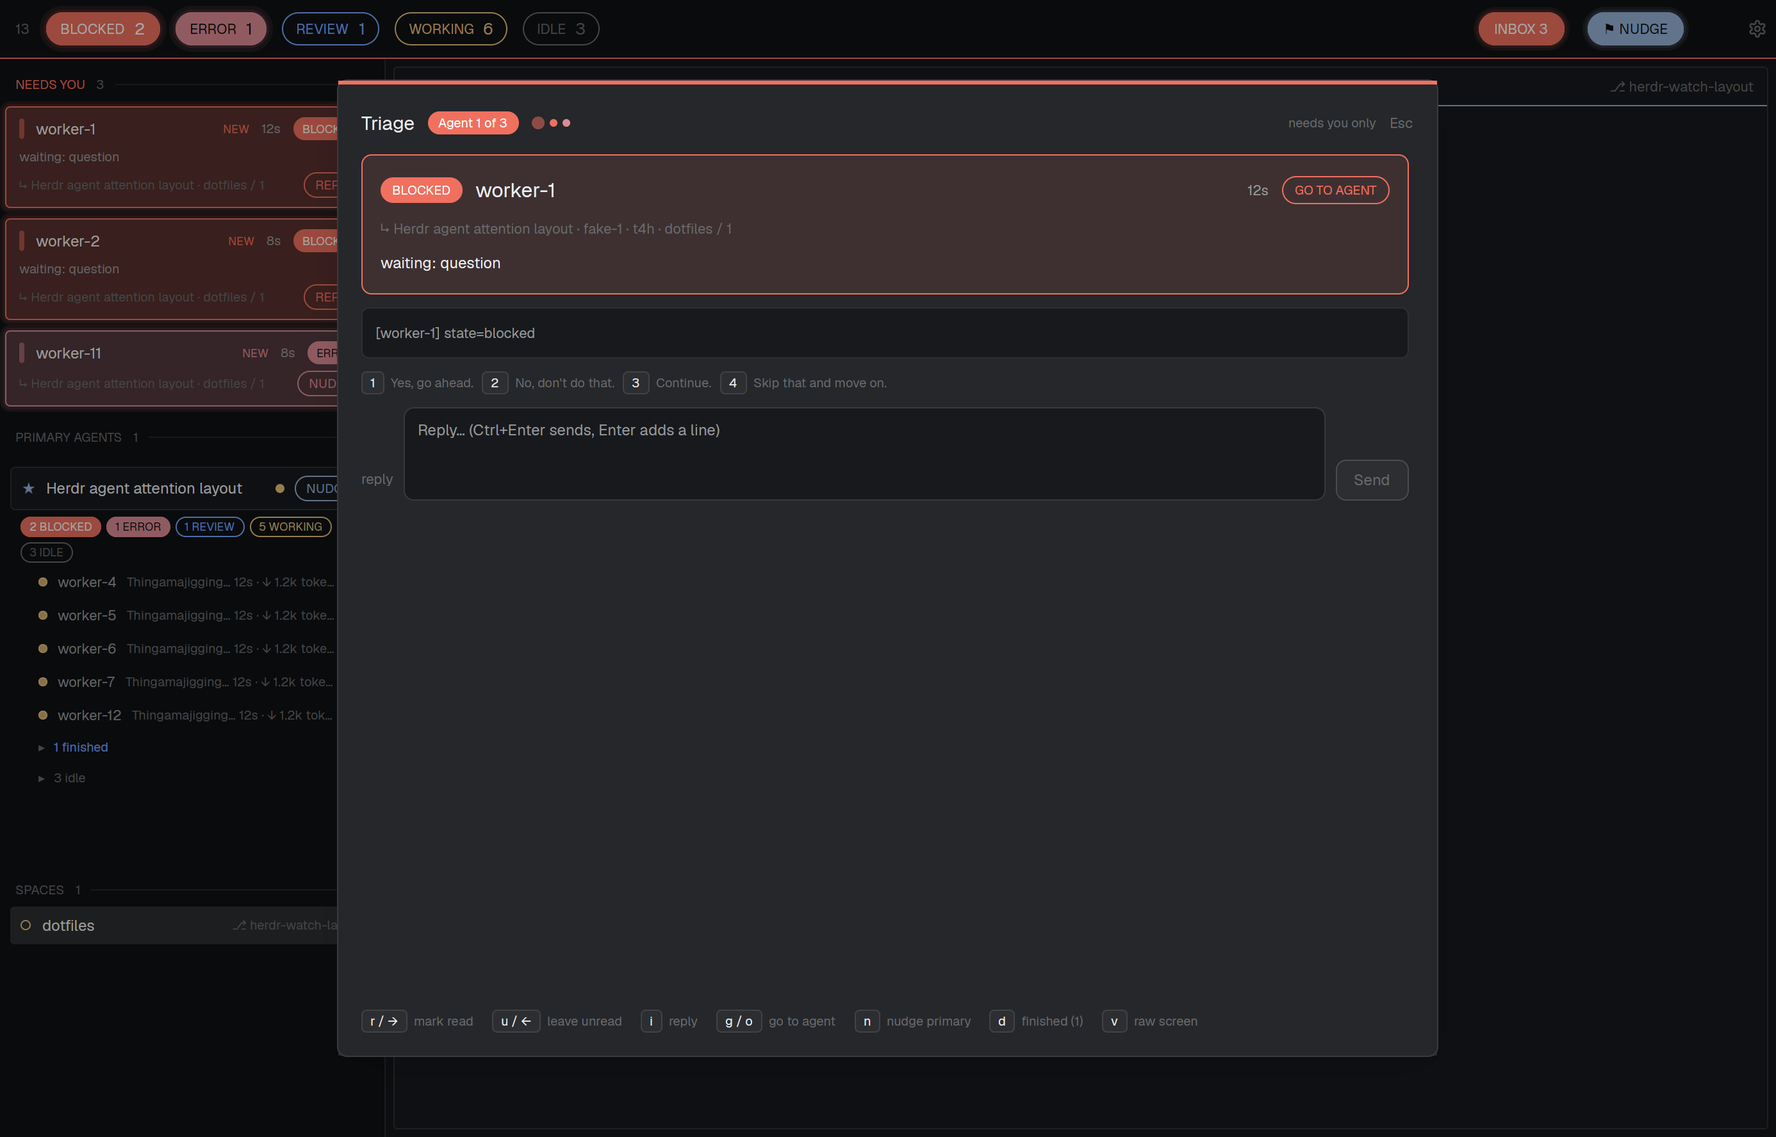
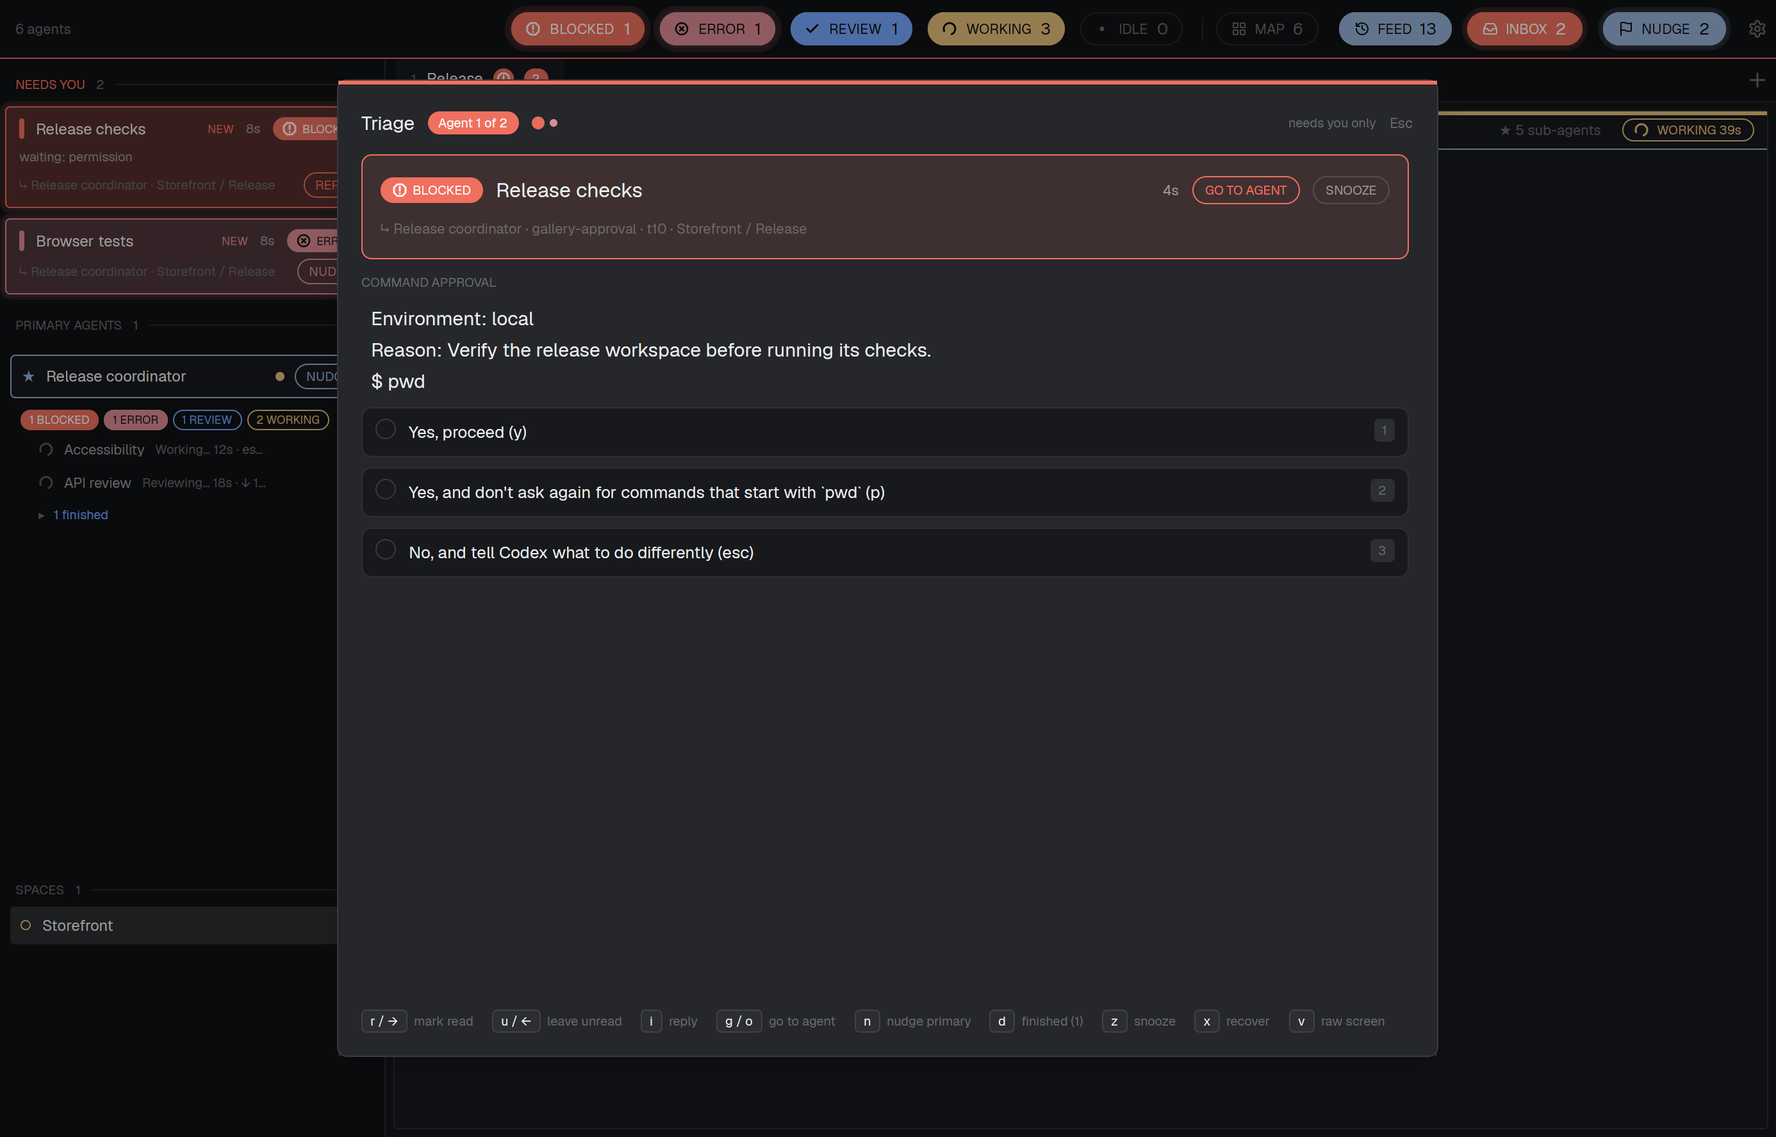
Refresh Conduct Gallery documentation and screenshots

diff --git a/herdr-conduct/RECIPE.md b/herdr-conduct/RECIPE.md
@@ -1,16 +1,16 @@
 # Conduct
 
-A Herdr window for running many agents from one primary agent. The top bar and sidebar answer one question: *which agent needs me, and what does it need?* States that need a decision (blocked, error, stuck) are filled chips with a pulsing halo; states that don't (working, finished, idle) are quiet outlines. A hotkey inbox walks you through each waiting agent and its questions, a Finished list holds the information-only completions, a NUDGE button asks the primary to check on its sub-agents, and a settings dialog changes every hotkey and the colour theme.
+A Herdr window for running many agents from one primary agent. The top bar and sidebar answer one question: *which agent needs me, and what does it need?* Blocked, error, and stuck chips pulse when there are agents to review. Working and finished counts stay visible beside them. A hotkey inbox walks you through each waiting agent and its questions, a Finished list holds the information-only completions, a NUDGE button asks the primary to check on its sub-agents, and a settings dialog changes every hotkey and the colour theme.
 
-![Conduct](preview.png)
-![The inbox](inbox.png)
+![Conduct overview with a release coordinator and five demo agents](preview.png)
+![Conduct inbox with a Codex command approval and three interactive choices](inbox.png)
 
 ## What you see
 
 A `column` on the theme's `canvas` colour, system title bar hidden, 14px terminals, UI in the app font:
 
 - **Top bar, 46px** (drag to move the window; 1px bottom border that turns the "blocked" colour while anything is blocked, error or stuck). Left to right: the total agent count (11px, dim) at the left edge; one count chip per state, right-aligned beside the pills (a 1px vertical separator between them), `BLOCKED`, `REVIEW`, `WORKING`, `IDLE` always, `ERROR` and `STUCK?` only when above zero (26px tall pills: 11px semibold label, 13px count); the right-hand group, every pill reading icon / text / number (`MAP 13`, `SPEND $64/hr`, `FEED n`, `INBOX n`, `NUDGE n`, plus `SNOOZED n` among the status chips; icons are inbox, history clock, flag, grid and dollar sign, drawn from `conduct-glyphs`): the pill is filled when its number is something to act on (inbox, feed, nudge: the flagged sub-agents) and a quiet outline otherwise, and the text drops out first (icon and number only) when there is no room; a `⚑ NUDGE` pill; a gear (settings) icon button; window buttons where the system draws none. When the window is too narrow or the zoom too high for the chips beside the pills, they shrink to a colour dot plus the count (the name stays in the tooltip) and, past that, scroll sideways, so none is ever cut off.
-  - `BLOCKED`, `ERROR`, `STUCK?` with a count above zero are **filled** in the state's colour with a **pulsing two-ring halo**; every other chip is also filled in its colour whenever its count is above zero (no halo) and a grey outline at zero (rings fade 0.15 to 1 and 1 to 0.2 over 1.3s). With zero, or for `REVIEW`, `WORKING`, `IDLE`, they are **outlines**: `REVIEW` is never filled or haloed.
+  - Count chips fill with the state's colour above zero and use a dim outline at zero. `BLOCKED`, `ERROR`, and `STUCK?` also get a pulsing two-ring halo.
   - `INBOX n` counts unread critical agents; filled and haloed in the colour of the most urgent one when n is above zero, a dim outline at zero. `NUDGE` is an accent-filled, haloed pill when a primary agent exists and something needs attention, plain otherwise.
   - Click a count chip: jump to the next agent in that state (repeat clicks cycle). Press and hold (450ms): a popup listing those agents; click one to go there.
 - **Tab row, 34px** over the work area, to the right of the sidebar and under the bar (chrome background, 1px bottom border): the shown space's tabs, each `index  name` (an unnamed tab is called by its first agent's title; the index is dropped when it would repeat the name), 12px, the active one on the surface colour with a 2px accent underline. A dot shows the most urgent state of the agents in the tab (filled and pulsing for blocked, error, stuck; pulsing for working; outline for finished) and a small filled badge counts those that need you. Click selects, right-click opens Herdr's tab menu, the row scrolls sideways when full, and a `+` at the right starts a new tab.
@@ -22,7 +22,8 @@ A `column` on the theme's `canvas` colour, system title bar hidden, 14px termina
 - **Work area:** the shown tab's panes as cards (1px border, 3px radius, 6px gap, 2px accent border on the focused pane). Each pane has a 30px header: a 3px status stripe along the top edge (pulsing for critical states), the agent's title, `★ n sub-agents` for a primary, the git branch, and a state pill with how long (`BLOCKED 4m`), filled and pulsing only for critical states.
 - **The inbox** (`alt-t`, the `INBOX` pill; a dialog at 62% x 86% of the window, so it survives zoom): a coloured 3px top strip, `Triage`, an `Agent i of n` pill and one dot per unread agent, then a scrolling body and a footer of clickable hotkey chips. The body shows one agent's card (state pill, title, `GO TO AGENT`, `↳ primary · name · address · space / tab`, its message) and then either:
   - **a question form** when the agent is showing a Claude Code question menu: `QUESTION k OF n` over clickable chips (one per question plus `Review`); the question in 15px semibold; radio rows (single select) or checkboxes (multi select) with descriptions and a number badge; `Something else…` for a typed answer; for a preview layout, the options on the left and the highlighted option's preview in a monospace box on the right with an optional notes field. Buttons: `Confirm` / `Continue` / `Skip this question →` / `Reset` / `← Back`; the last step is `Review your answers` with `Submit and go to next agent`, and unanswered questions listed as "not answered".
-  - or **the tail of the agent's screen** with quick replies (`1 Yes, go ahead.` `2 No, don't do that.` `3 Continue.` `4 Skip that and move on.`), and a multi-line reply box with a `Send` button.
+  - **Codex command approvals** show the reason, command, and numbered choices. A click or number stages a choice. Confirm or Enter rechecks the live prompt before sending it.
+  - **Recognized text prompts** show the screen tail, quick replies, and a multi-line reply box. Other prompts show the screen tail and a link to the terminal.
 - **Finished list** (`d` in the inbox): one line per agent that finished unread: name, how long ago, its last message. Click opens the agent. Information only: nothing pulses.
 - **Nudge dialog:** a multi-line message that tells the primary the IDs are Herdr terminal addresses and which `hc` commands to use, listing each flagged sub-agent; editable, `Ctrl+Enter` sends.
 - **Settings dialog** (gear, `alt-,`): tabs `Hotkeys` and `Themes`.
@@ -105,8 +106,8 @@ All hotkeys below are defaults and editable in Settings. Dialogs are 0.62 x 0.86
 - **Feed** (`conduct-feed`, `ctrl-alt-f`; the `FEED n` outline pill left of `INBOX`, accent border while unread): a timeline grouped by day with a "SINCE YOU LAST LOOKED" divider, filter chips by state and primary, `Mark all seen`. Events: arrival (collapsed when 3 or more at once), entered blocked/error/stuck/finished/working/idle, ended. **Alerts** (`conduct-alerts`, `ctrl-alt-a`, 0.5 x 0.7): switches, quiet hours (HH:MM), toast, sound, optional ntfy push (off), a test button.
 - **Snooze** (`conduct-snooze`, `z`; a 0.3-wide dialog): presets (5 min, 15 min, 1 hour, this afternoon, tomorrow 09:00), custom minutes, "tell me when this finishes", un-snooze. A snooze ends when its time passes or the agent's state changes. Snoozed agents leave NEEDS YOU, the red counts and the inbox, show as a compact row with "⏱ snoozed until HH:MM", and a passive `SNOOZED n` chip appears after `IDLE`.
 - **Recover** (`conduct-recover`, `x`; 0.45 x 0.8): shows the agent, its state and age and the live tail of its screen; actions Ask for a status, Interrupt then ask, Restart, Restart and resume (Claude Code, adds `--continue`), End it (the last three behind a second click); optional auto-nudge (off; one status check per stall after N minutes).
-- **Usage** (`conduct-usage`, `ctrl-alt-u`; an outline `$/hr` pill in the bar, red only when contexts are nearly full): per Claude Code agent, a context bar (used/total, coloured by what is left), a prompt-cache timer draining over the cache lifetime (5 min, or 1 h for 1-hour writes; warm, cooling, cold), a 10-turn hit/miss sparkline, session and last-turn cost, cache savings, burn rate. Sidebar rows and primary cards carry a thin mini bar; the pane header a 2px context bar along its bottom edge and the cache timer in its tag area. Local Codex agents with an open rollout show the context window and measured cache-hit share. The dialog has fleet totals and sort chips (cost, burn, context, cache).
-- **Batch reply** (`conduct-batch`, `ctrl-alt-b`): blocked agents grouped by identical (normalised) waiting message, a checkbox per agent, quick replies and a multi-line box, a mandatory confirm step ("Will send to N agents: ..."), per-agent results; agents showing Claude Code question forms are excluded (answer those in the inbox).
+- **Usage** (`conduct-usage`, `ctrl-alt-u`; an outline `$/hr` pill in the bar, red only when contexts are nearly full): per Claude Code agent, a context bar (used/total, coloured by what is left), a prompt-cache timer draining over the cache lifetime (5 min, or 1 h for 1-hour writes; warm, cooling, cold), a 10-turn hit/miss sparkline, session and last-turn cost, cache savings, burn rate. Sidebar rows and primary cards carry a thin mini bar; the pane header a 2px context bar along its bottom edge and the cache timer in its tag area. Local Codex agents with an open rollout show the context window and measured cache-hit share. Their cost and cache-expiry fields are blank. The dialog has fleet totals and sort chips (cost, burn, context, cache).
+- **Batch reply** (`conduct-batch`, `ctrl-alt-b`): blocked agents grouped by identical (normalised) waiting message, a checkbox per agent, quick replies and a multi-line box, a mandatory confirm step ("Will send to N agents: ..."), per-agent results; only recognized text prompts can be grouped. Structured questions and command approvals are answered in the inbox.
 - **Jump palette** (`conduct-jump`, `ctrl-alt-k`, a popup 0.5 wide) and **previous agent** (`ctrl-alt-tab`, command `conduct-bar.previous`): fuzzy search over agents, spaces and tabs, recent first.
 - **Density** (`conduct-density`, Settings tab): comfortable (default) or compact spacing for the sidebar rows and cards; stored in `conduct.density`.
 - **Harness adapters:** the registry in `mods/conduct-harnesses/harnesses.js` maps Herdr app IDs to identity, status, activity, prompt, usage, and recovery capabilities. Inbox and batch reply share the prompt classifier.

diff --git a/herdr-conduct/README.md b/herdr-conduct/README.md
@@ -1,9 +1,9 @@
 # Conduct: a Herdr layout for running many agents from one primary agent
 
-Built for the workflow where you talk to a primary agent that starts dozens of sub-agents with `hc run`. The window answers *which agent needs me, and what does it need?* States that need a decision (blocked, error, stuck) are filled chips with a pulsing halo; everything else (working, finished, idle) is a quiet outline. A hotkey inbox walks you through each waiting agent and its questions, then on to the next. See [RECIPE.md](RECIPE.md) for exactly what it looks like and does.
+Built for the workflow where you talk to a primary agent that starts dozens of sub-agents with `hc run`. The window answers *which agent needs me, and what does it need?* Blocked, error, and stuck chips pulse when there are agents to review. Working and finished counts stay visible beside them. A hotkey inbox walks you through each waiting agent and its questions, then on to the next. See [RECIPE.md](RECIPE.md) for exactly what it looks like and does.
 
-![Conduct](preview.png)
-![The inbox](inbox.png)
+![Conduct overview with a release coordinator and five demo agents](preview.png)
+![Conduct inbox with a Codex command approval and three interactive choices](inbox.png)
 
 **Using another harness (Codex, Gemini CLI, Aider, ...)?** [HARNESSES.md](HARNESSES.md) says what works out of the box, what each harness needs, and how an agent can add it for you.
 
@@ -23,7 +23,7 @@ Or tell your agent to add the layout from `sneakytowelsuit/dotfiles`, folder `he
 
 ## What it does
 
-- **Top bar:** a chip per state with its count, centred on the window (compact dots and counts when there is no room). `BLOCKED`, `ERROR`, `STUCK?` are filled and haloed when above zero; `REVIEW`, `WORKING`, `IDLE` are outlines. Click a chip to jump to the next agent in that state, press and hold for a menu of them. `INBOX n`, `⚑ NUDGE` and a gear for settings sit on the right; the chips scroll sideways rather than being cut off.
+- **Top bar:** a chip per state with its count, aligned toward the right (compact dots and counts when there is no room). Counts above zero use the state colour; `BLOCKED`, `ERROR`, and `STUCK?` also get a pulsing halo. Click a chip to jump to the next agent in that state, press and hold for a menu of them. `INBOX n`, `⚑ NUDGE` and a gear for settings sit on the right; the chips scroll sideways rather than being cut off.
 - **Tab row:** over the work area (beside the sidebar), the shown space's tabs with a dot for the most urgent state of the agents in each (and a count of those that need you), plus a `+` for a new tab. Click selects, right-click opens the tab menu.
 - **Sidebar:** `NEEDS YOU` (a card per agent that needs a decision, with `REPLY` / `NUDGE`), a card per primary agent (state counts, working sub-agents with their live activity such as `Thingamajigging… 12s · ↓ 1.2k tokens`, `▸ n finished`, `▸ n idle`), other agents, and spaces.
 - **Pane headers:** a status stripe and a state pill with how long; only critical states fill and pulse.
@@ -31,7 +31,8 @@ Or tell your agent to add the layout from `sneakytowelsuit/dotfiles`, folder `he
 - **Nudge:** `⚑ NUDGE` (or the button on a primary's card) composes a message telling the primary that the IDs are Herdr terminal addresses (not session names), naming the `hc` commands to use, and listing the sub-agents that need attention. You edit it, then send.
 - **Inbox** (`alt-t`): one waiting agent at a time, with `Agent i of n`, then its card:
   - **Claude Code questions** are drawn as a real form (radio or checkboxes, descriptions, `Something else…`, preview layouts with notes, `Skip`, `Reset`, `Back`, a review step) and answered by pressing the keys the terminal menu expects. `QUESTION k OF n` chips jump between questions. `Submit and go to next agent` sends and advances by itself.
-  - Anything else shows the agent's screen, quick replies and a multi-line reply box (`Ctrl+Enter` sends).
+  - **Codex command approvals** show the command and its choices. Select a choice by click or number, then confirm. Conduct checks the active prompt before sending the key.
+  - Recognized text prompts get quick replies and a multi-line reply box (`Ctrl+Enter` sends). Other prompts show the screen and let you jump to the terminal.
   - `r` marks read, `u` leaves it unread, `g` goes to the agent's terminal, `d` opens the **Finished** list (information only: finished agents and what they last said), `v` shows the raw screen. Every hint chip is clickable.
 - **Settings** (gear, `alt-,`): every hotkey is editable (global keys go into `keys.json`, inbox keys are stored by the layout) with conflict warnings and one-click presets that move all global keys to `ctrl-alt`, `ctrl-shift` or `cmd-shift` (for tiling window managers such as Aerospace that own `alt-…`); and 18 colour themes: Catppuccin (4), Nord, Gruvbox (2), Rosé Pine (3), Dracula, Tokyo Night (2), Solarized (2), Everforest, Kanagawa, GitHub Dark.
 
@@ -43,9 +44,9 @@ Default hotkeys: global `alt-t` inbox, `alt-n` / `alt-p` next / previous agent n
 - **Agent map** (`alt-a`): the whole fleet as a grid of cells grouped by primary, filled only for blocked and error; hover for details, click or Enter to go there, legend chips filter by state. Scales to about 100 agents.
 - **Activity feed** (`ctrl-alt-f`, the `FEED n` pill): a timeline of what happened while you were away (blocked, errors, finishes, arrivals), with a "since you last looked" divider. **Alerts** (`ctrl-alt-a`): toast, sound and optional phone push (ntfy, off by default) for newly blocked, errored or stuck agents; quiet hours; batches a burst into one alert.
 - **Snooze** (`z` in the inbox, or `SNOOZE`): hide an agent for 5 minutes to tomorrow morning; it returns when the time ends or its state changes. "Tell me when this finishes" watches an agent. A `SNOOZED n` chip shows how many are hidden.
-- **Recover** (`x`, or `RECOVER` on stuck and errored cards): ask for a status, interrupt then ask, restart, restart and resume (Claude Code, `--continue`), end it; destructive ones need a second click. Optional auto-nudge sends one status check to an agent that has been stuck for N minutes.
-- **Usage** (`ctrl-alt-u`, the `$/hr` pill): for Claude Code agents, a context-window bar, a prompt-cache timer (warm, cooling, cold), a hit-ratio sparkline, session and last-turn cost, cache savings and burn rate, in the sidebar rows, the pane header and a Usage dialog. Local Codex agents with an open rollout show context and cache-hit share. Claude Code costs are estimates from a dated price table (`PRICES` in `usage.js`).
-- **Batch reply** (`ctrl-alt-b`): answer several blocked agents at once; agents waiting on the same message are grouped, you tick who gets the reply, and a confirm step shows exactly who will receive it.
+- **Recover** (`x`, or `RECOVER` on stuck and errored cards): ask for a status, interrupt then ask, restart, restart and resume (Claude Code with `--continue`, or plain interactive Codex with `resume --last`), end it; destructive ones need a second click. Optional auto-nudge sends one status check to an agent that has been stuck for N minutes.
+- **Usage** (`ctrl-alt-u`, the `$/hr` pill): for Claude Code agents, a context-window bar, a prompt-cache timer (warm, cooling, cold), a hit-ratio sparkline, session and last-turn cost, cache savings and burn rate, in the sidebar rows, the pane header and a Usage dialog. Local Codex agents with an open rollout show context and cache-hit share. Their cost and cache-expiry fields are blank. The rollout supplies token counts, and Conduct currently has no Codex pricing adapter. Claude Code costs are estimates from a dated price table (`PRICES` in `usage.js`).
+- **Batch reply** (`ctrl-alt-b`): answer several blocked agents with recognized text prompts at once; agents waiting on the same message are grouped, you tick who gets the reply, and a confirm step shows exactly who will receive it.
 - **Jump palette** (`ctrl-alt-k`) and **previous agent** (`ctrl-alt-tab`): fuzzy-find any agent, space or tab; jump back to the agent you came from.
 - **Density** (Settings, Density tab): comfortable or compact sidebar rows for big fleets.
 - **Other harnesses:** see [HARNESSES.md](HARNESSES.md).
@@ -56,14 +57,14 @@ Hotkeys listed here are the defaults; all are editable in Settings.
 
 - It runs `hc read`, `hc keys`, `hc send` and `hc interrupt` on agent terminals: it reads their screens (for activity lines, stuck detection and question forms) and types into them only when you click or press a key. Nothing is sent over the network.
 - The settings mod writes `~/.config/herdr-app/keys.json` (section `layout:conduct`), `settings.json` (`appearance`, only when you pick a theme) and `themes/*.json`.
-- Question forms depend on Claude Code's current question menu; a different layout falls back to showing the raw screen.
+- Forms depend on the harness's terminal menu. Conduct recognizes Claude Code question forms and Codex command approvals.
 - **Usage** reads only token counts, model names and timestamps from local Claude Code transcripts and Codex rollouts using `tail` and `jq`; without `jq` no usage is shown.
 - **Alerts:** local by default. If you turn on phone push, each alert sends the agent's title and one-line message to ntfy.sh (a third-party server) over HTTPS with `curl`; the topic name acts as a password.
 - **Recover** can kill and restart terminals, only when you confirm.
 
 ## Editing
 
-The mods share modules that must be copied between mod folders (mods can't import across folders): `attn.js` and `keys.js` live in `mods/conduct-bar/`, and `./sync-shared.sh` copies them. Themes are generated by `python3 themes/generate.py` (it also rewrites `mods/conduct-settings/themes.js`).
+Run `./sync-shared.sh` after editing a shared module or the harness registry in `mods/conduct-harnesses/`. Herdr resolves imports within each mod folder, so CI checks the generated copies. Themes are generated by `python3 themes/generate.py` (it also rewrites `mods/conduct-settings/themes.js`).
 
 ## Testing without spending tokens
 
@@ -71,4 +72,4 @@ The mods share modules that must be copied between mod folders (mods can't impor
 
 ## Limits
 
-How long an agent has been in a state is counted from when this layout first saw it. The activity line is parsed from Claude Code's screen only. Claude's own menu can't clear an answer already sent. `Record` in settings can't capture a key Herdr already binds: type it into the box.
+How long an agent has been in a state is counted from when this layout first saw it. Activity-line parsing is verified for Claude Code and Codex. Claude's own menu can't clear an answer already sent. `Record` in settings can't capture a key Herdr already binds: type it into the box.
